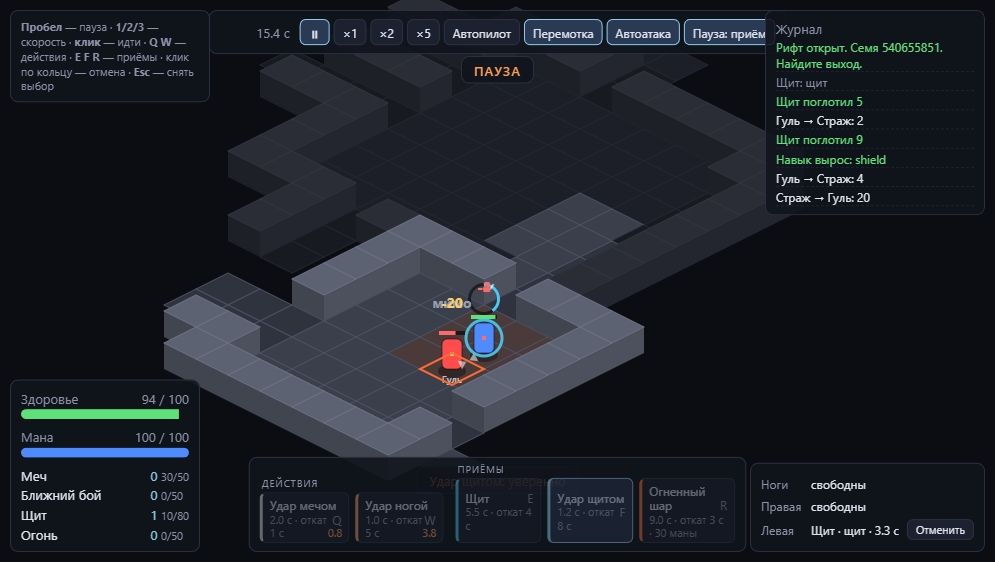
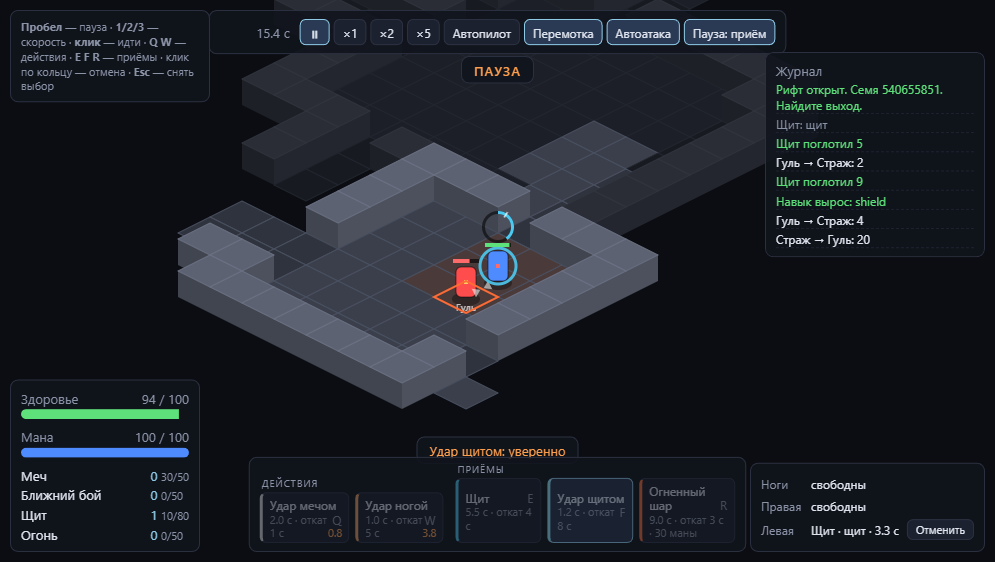
HUD: строка риска и журнал не перекрывают панели на узком окне

diff --git a/src/style.css b/src/style.css
@@ -315,7 +315,7 @@ button:disabled {
 }
 
 #risk {
-  bottom: 68px;
+  bottom: 98px;
   left: 50%;
   transform: translateX(-50%);
   color: var(--warn);
@@ -360,4 +360,11 @@ button:disabled {
 
 #actions button:disabled .cd {
   opacity: 1;
+}
+
+@media (max-width: 1250px) {
+  #right {
+    top: 52px;
+    max-height: 38vh;
+  }
 }
